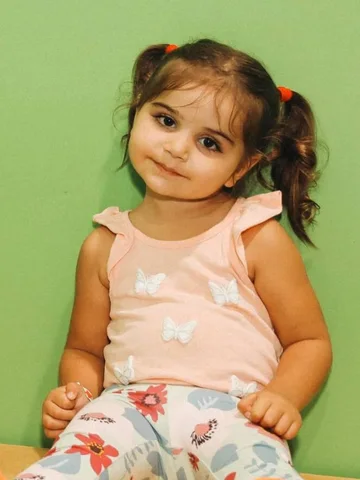
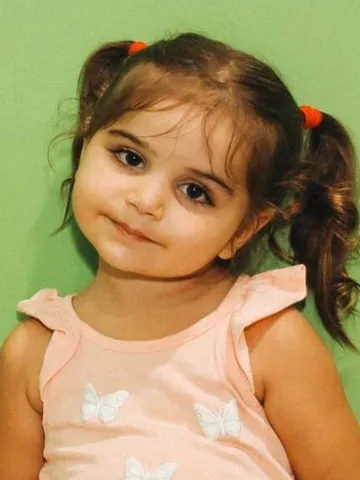
Пары «по фото → в книге»: фото детей обрезаны плотнее, обложка Аделины крупно

diff --git a/index.html b/index.html
@@ -150,19 +150,19 @@
       </div>
       <div class="home-pairs-row">
         <div class="before-after">
-          <figure><img src="assets/examples/alex-3d/photo.webp" width="241" height="321" loading="lazy" alt="Фото Алекса из анкеты: мальчик 13 лет, селфи"><figcaption>Фото из анкеты — Алекс, 13 лет</figcaption></figure>
+          <figure><img src="assets/examples/alex-3d/photo.webp?v=2" width="195" height="260" loading="lazy" alt="Фото Алекса из анкеты: мальчик 13 лет, селфи"><figcaption>Фото из анкеты — Алекс, 13 лет</figcaption></figure>
           <span class="arrow" aria-hidden="true">→</span>
           <figure><img src="assets/examples/alex-3d/cover-480.webp?v=2" width="480" height="720" loading="lazy" style="object-position:center 30%;" alt="Обложка книги «Алекс и тайна Ани»: Алекс, нарисованный в стиле 3D-мультфильм"><figcaption>Обложка его книги, «3D-мультфильм»</figcaption></figure>
         </div>
         <div class="before-after">
-          <figure><img src="assets/examples/aelita/photo.webp" width="360" height="480" loading="lazy" alt="Фото Аэлиты из анкеты: девочка 2 лет в розовой маечке с бабочками"><figcaption>Фото из анкеты — Аэлита, 2 года</figcaption></figure>
+          <figure><img src="assets/examples/aelita/photo.webp?v=2" width="360" height="480" loading="lazy" alt="Фото Аэлиты из анкеты: девочка 2 лет в розовой маечке с бабочками"><figcaption>Фото из анкеты — Аэлита, 2 года</figcaption></figure>
           <span class="arrow" aria-hidden="true">→</span>
           <figure><img src="assets/examples/aelita/cover-480.webp" width="480" height="720" loading="lazy" style="object-position:center 25%;" alt="Обложка книги «Аэлита и кнопка для лунного торта»: Аэлита, нарисованная акварелью"><figcaption>Обложка её книги, «Акварель»</figcaption></figure>
         </div>
         <div class="before-after">
-          <figure><img src="assets/examples/adelina/photo.webp" width="312" height="416" loading="lazy" alt="Фото Аделины из анкеты: девочка 4 лет в красном платье"><figcaption>Фото из анкеты — Аделина, 4 года</figcaption></figure>
+          <figure><img src="assets/examples/adelina/photo.webp?v=2" width="236" height="315" loading="lazy" alt="Фото Аделины из анкеты: девочка 4 лет в красном платье"><figcaption>Фото из анкеты — Аделина, 4 года</figcaption></figure>
           <span class="arrow" aria-hidden="true">→</span>
-          <figure><img src="assets/examples/adelina/cover-480.webp" width="480" height="720" loading="lazy" style="object-position:center 25%;" alt="Обложка книги «Аделина и волшебные качели»: Аделина в красном платье на качелях, нарисованная акварелью"><figcaption>Обложка её книги, «Акварель»</figcaption></figure>
+          <figure><img src="assets/examples/adelina/cover-face.webp" width="480" height="640" loading="lazy" alt="Обложка книги «Аделина и волшебные качели» крупно: Аделина в красном платье и синей куртке, нарисованная акварелью"><figcaption>Обложка её книги крупно, «Акварель»</figcaption></figure>
         </div>
       </div>
       <p class="spread-source">Фото и книги публикуем с согласия родителей.</p>

diff --git a/examples.html b/examples.html
@@ -195,13 +195,13 @@
       <div class="before-after-list" style="display:grid; gap:30px;">
       <div class="before-after">
         <!-- Пара «фото → иллюстрация»: Алекс, 13 лет (фото и книга публикуются с согласия родителей, 26.09) -->
-        <figure><img src="assets/examples/alex-3d/photo.webp" width="241" height="321" loading="lazy" alt="Фото Алекса из анкеты: мальчик 13 лет, селфи"><figcaption>Фото из анкеты — Алекс, 13 лет</figcaption></figure>
+        <figure><img src="assets/examples/alex-3d/photo.webp?v=2" width="195" height="260" loading="lazy" alt="Фото Алекса из анкеты: мальчик 13 лет, селфи"><figcaption>Фото из анкеты — Алекс, 13 лет</figcaption></figure>
         <span class="arrow" aria-hidden="true">→</span>
         <figure><img src="assets/examples/alex-3d/cover-480.webp?v=2" width="480" height="720" loading="lazy" style="object-position:center 30%;" alt="Обложка книги «Алекс и тайна Ани»: Алекс, нарисованный в стиле 3D-мультфильм"><figcaption>Обложка его книги, стиль «3D-мультфильм»</figcaption></figure>
       </div>
       <div class="before-after">
         <!-- Аэлита, 2 года (фото и книга публикуются с согласия мамы, 05.10) -->
-        <figure><img src="assets/examples/aelita/photo.webp" width="360" height="480" loading="lazy" alt="Фото Аэлиты из анкеты: девочка 2 лет в розовой маечке с бабочками"><figcaption>Фото из анкеты — Аэлита, 2 года</figcaption></figure>
+        <figure><img src="assets/examples/aelita/photo.webp?v=2" width="360" height="480" loading="lazy" alt="Фото Аэлиты из анкеты: девочка 2 лет в розовой маечке с бабочками"><figcaption>Фото из анкеты — Аэлита, 2 года</figcaption></figure>
         <span class="arrow" aria-hidden="true">→</span>
         <figure><img src="assets/examples/aelita/cover-480.webp" width="480" height="720" loading="lazy" style="object-position:center 25%;" alt="Обложка книги «Аэлита и кнопка для лунного торта»: Аэлита, нарисованная акварелью"><figcaption>Обложка её книги, стиль «Акварель»</figcaption></figure>
       </div>

diff --git a/docs/redesign-plan.md b/docs/redesign-plan.md
@@ -91,7 +91,7 @@
 ## Этап 2 — нужны материалы владелицы
 
 - [ ] Отзывы (пока нет — владелица пришлёт позже): 3–6 настоящих, с именем и городом (+ страница из их книги).
-- [x] «По фото → в книге»: на главной под разворотом (19.10) — Алекс и Аэлита (согласие есть); 21.10 — третья пара: Аделина в красном платье (`foto/adelina-4.jpg`, обрезано без Аэлиты на заднем плане → `adelina/photo.webp`) → обложка. На ≥1100 px три пары в ряд.
+- [x] «По фото → в книге»: на главной под разворотом (19.10) — Алекс и Аэлита (согласие есть); 21.10 — третья пара: Аделина в красном платье (`foto/adelina-4.jpg`, обрезано без Аэлиты на заднем плане → `adelina/photo.webp`) → обложка крупно (`adelina/cover-face.webp`, вырезано из обложки — чтобы сходство было видно). 21.10: фото всех трёх детей обрезаны плотнее — лицо в центре, фона минимум (фон не заменяем: должно быть видно, что фото настоящие). На ≥1100 px три пары в ряд.
 - [x] «Кто делает книги»: на главной перед FAQ (19.10), фото с «О нас» (`nelli-avatar`), текст одобрен владелицей («теплее»).
 - Сертификат (19.10): владелица сначала решила убрать, потом передумала — всё осталось как было. Надписи про оплату
   (книга «Получить всю книгу», подарочный сертификат) — «Подключаем онлайн-оплату через ЮKassa».
